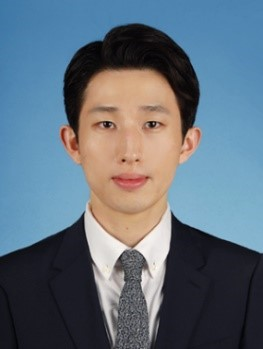
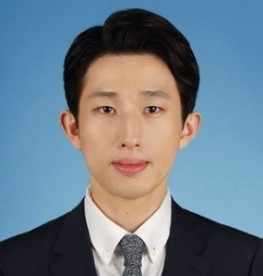
docs: 프로필 및 리드미 수정

diff --git a/js/config.js b/js/config.js
@@ -1,4 +1,4 @@
-/* config.js — 사이트에 표시되는 "내용"만 모아둔 파일 */
+/* config.js: 웹 페이지에 표시되는 내용을 모아둔 파일 */
 
 const SITE_CONFIG = {
   /* 브라우저 탭 제목 / 검색 설명 */
@@ -35,10 +35,10 @@ const SITE_CONFIG = {
       src: 'images/김영운.jpg',
       alt: '프로필 사진', // 이미지 내용을 설명하는 문장
     },
-    // 직장 경력
+    // 주요 경력
     paragraphs: [
-      'Ex- Ernst & Young AI 컨설팅 팀',
-      'Ex- KoDATA Solution 리서치 팀',
+      '직장 경력: Ernst & Young AI 컨설팅 팀 / KoDATA(한국평가데이터) 리서치 팀',
+      '주요 프로젝트: 하나증권 옴니버스 계좌 타겟 MTS 개선/ BNK금융그룹 모바일 앱 리뷰 분석 시스템',
     ],
     // 핵심 정보
     facts: [
@@ -74,8 +74,7 @@ const SITE_CONFIG = {
     lead: '궁금한 점이 있다면 편하게 메시지를 남겨 주세요.',
     successMessage: '메시지를 보냈습니다. 확인 후 답장드리겠습니다.',
     // [BONUS 3] Formspree 엔드포인트
-    // 예: 'https://formspree.io/f/abcdwxyz'
-    formspreeEndpoint: '', // TODO (선택)
+    formspreeEndpoint: 'https://formspree.io/f/xrpbpaow',
   },
 
   /* Footer(저작권, 소셜 링크) */
@@ -83,8 +82,8 @@ const SITE_CONFIG = {
     copyrightName: '김영운', 
     // iconClass 는 Font Awesome 클래스명(https://fontawesome.com/search?o=r&m=free)
     socialLinks: [
-      { label: 'GitHub', url: 'https://github.com/ktheodoreyw', iconClass: 'fa-brands fa-github' }, // TODO
-      { label: 'LinkedIn', url: 'https://www.linkedin.com/in/yeong-woon-kim-86463a2a4/', iconClass: 'fa-brands fa-linkedin' }, // TODO
+      { label: 'GitHub', url: 'https://github.com/ktheodoreyw', iconClass: 'fa-brands fa-github' },
+      { label: 'LinkedIn', url: 'https://www.linkedin.com/in/yeong-woon-kim-86463a2a4/', iconClass: 'fa-brands fa-linkedin' },
     ],
   },
 

diff --git a/README.md b/README.md
@@ -1,22 +1,22 @@
-# 반응형 포트폴리오 웹사이트
+# 프로젝트 개요
 
-외부 라이브러리 없이 **순수 HTML / CSS / JavaScript** 만으로 만든 반응형 포트폴리오 웹사이트입니다.
-GitHub API로 저장소 목록을 불러와 Projects 섹션에 렌더링하며, 모든 기능을 **"이벤트 → 상태 변경 → 화면 업데이트"** 흐름으로 구현했습니다.
+외부 라이브러리 없이 **HTML / CSS / JavaScript** 만으로 반응형 포트폴리오 웹사이트 구현
+GitHub API로 저장소 목록을 불러와 Projects 섹션에 렌더링하며, 모든 기능을 **"이벤트 → 상태 변경 → 화면 업데이트"** 흐름으로 구현
 
 | 항목 | 내용 |
 | --- | --- |
-| 배포 URL | `https://<GITHUB_ID>.github.io/<REPO_NAME>/` <!-- TODO: 배포 후 실제 주소로 교체 --> |
-| 저장소 URL | `https://github.com/<GITHUB_ID>/<REPO_NAME>` <!-- TODO --> |
-| 사용 기술 | HTML5, CSS3(Flexbox · Grid · CSS 변수), JavaScript(ES6+), GitHub REST API |
+| 배포 URL | `https://ktheodoreyw.github.io/Codyssey_B1-1_Theodore/` |
+| 저장소 URL | `https://github.com/<ktheodoreyw>/<Codyssey_B1-1_Theodore>` |
+| 사용 기술 | HTML5, CSS3(Flexbox, Grid), JavaScript(ES6+), GitHub REST API |
 | 허용된 외부 리소스 | Google Fonts(IBM Plex Sans KR), Font Awesome(아이콘) |
-| 동작 확인 브라우저 | 최신 Chrome |
+| 동작 확인 브라우저 | Chrome |
 
 ## 목차
 
 1. [스크린샷](#1-스크린샷)
-2. [내용 채우기 — `js/config.js` 만 수정](#2-내용-채우기--jsconfigjs-만-수정)
+2. [포트폴리오 상세내용](#2-포트폴리오--상세내용)
 3. [폴더 구조](#3-폴더-구조)
-4. [실행 · 업로드 · 배포](#4-실행--업로드--배포)
+4. [실행, 업로드, 배포](#4-실행--업로드--배포)
 5. [기준값 명시](#5-기준값-명시)
 6. **기본 과제**
    - [6-1. 기능 요구사항 체크리스트](#6-1-기능-요구사항-체크리스트)
@@ -27,9 +27,7 @@ GitHub API로 저장소 목록을 불러와 Projects 섹션에 렌더링하며, 
    - [항목 2 — 구조와 설계 이유](#항목-2--구조와-설계-이유)
    - [항목 3 — 코드 흐름 설명](#항목-3--코드-흐름-설명)
    - [항목 4 — 심화 질문](#항목-4--심화-질문)
-8. **[보너스 과제](#8-보너스-과제-기본-과제와-별도)** (기본 과제와 별도)
-9. [제출 전 체크리스트](#9-제출-전-체크리스트)
-
+8. [보너스 과제](#8-보너스-과제)
 ---
 
 ## 1. 스크린샷
@@ -42,7 +40,7 @@ GitHub API로 저장소 목록을 불러와 Projects 섹션에 렌더링하며, 
 
 ---
 
-## 2. 내용 채우기 — `js/config.js` 만 수정
+## 2. 포트폴리오 상세내용
 
 사이트에 표시되는 **내용(데이터)** 과 **구조·로직** 을 분리했습니다.
 `index.html` 은 뼈대만 갖고 있고, `main.js` 의 `renderContent()` 가 `config.js` 의 값을 읽어 각 섹션에 채워 넣습니다.
@@ -505,7 +503,7 @@ const fetchRepos = async () => {
 
 ---
 
-# 8. 보너스 과제 (기본 과제와 별도)
+# 8. 보너스 과제
 
 > 보너스 코드는 세 파일 모두에서 **`[BONUS n]` … `[/BONUS n]` 주석 블록**으로 기본 과제 코드와 구분했습니다.
 > `js/config.js` 의 `features` 값을 `false` 로 바꾸면 해당 보너스 없이 **기본 과제만** 동작합니다.
@@ -517,21 +515,21 @@ const fetchRepos = async () => {
 | 3 | 폼 실제 전송 (Formspree) | `contact.formspreeEndpoint` 입력 시 | `main.js` `[BONUS 3]` `sendToFormspree()` |
 | 4 | 시스템 다크 모드 감지 | `features.systemTheme` | `main.js` `[BONUS 4]` · `style.css` `[BONUS 4]` |
 
-## BONUS 1 — 언어별 프로젝트 필터링 (`array.filter`)
+## BONUS 1: 언어별 프로젝트 필터링 (`array.filter`)
 
 - `getLanguages()` : 저장소 배열을 `map` 으로 언어만 뽑고 `Set` 으로 중복 제거 → `['All', 'JavaScript', 'Python', …]` 버튼 생성. `language` 가 `null` 인 저장소는 "기타"로 묶습니다.
 - `getVisibleRepos()` : `items.filter((repo) => getLanguageLabel(repo) === filter)`
 - **상태 → 렌더링 흐름 (과제 예시 4)**: 필터 버튼 `click` → `handleFilterClick` → `setState('projects', { filter })` → `renderProjects()` 가 필터된 목록과 버튼의 `.active` 를 다시 그림
 - 버튼은 매번 다시 그려지므로 부모에 **이벤트 위임**으로 한 번만 연결했습니다.
 
-## BONUS 2 — 타이핑 효과
+## BONUS 2: 타이핑 효과
 
 - `initTypingEffect()` : `config.hero.typingPhrases` 의 문구를 `setTimeout` 재귀로 한 글자씩 출력(`slice(0, charIndex)`) → 1.6초 대기 → 삭제 → 다음 문구
 - 속도는 상수로 분리: `TYPING_SPEED = 90ms`, `DELETING_SPEED = 40ms`, `PAUSE_AFTER_TYPED = 1600ms`, `PAUSE_BEFORE_NEXT = 400ms`
 - 접근성: 계속 바뀌는 글자는 `aria-hidden` 처리하고 스크린 리더에는 전체 문구를 고정 텍스트로 제공. OS 의 "동작 줄이기" 설정 시 첫 문구를 고정 표시
 - OFF 시: `hero.role` 고정 문구가 그대로 표시됩니다.
 
-## BONUS 3 — 폼 실제 전송 (Formspree)
+## BONUS 3: 폼 실제 전송 (Formspree)
 
 1. [formspree.io](https://formspree.io) 가입 → New Form → 엔드포인트 복사 (`https://formspree.io/f/xxxxxxx`)
 2. `js/config.js` 의 `contact.formspreeEndpoint` 에 붙여넣기
@@ -541,7 +539,7 @@ const fetchRepos = async () => {
 - 엔드포인트가 비어 있으면 실제 전송 없이 **검증 + 성공 메시지까지만** 동작합니다. (기본 과제 범위)
 - Formspree 는 SDK 설치 없이 HTTP 요청만으로 동작하므로 "외부 라이브러리 금지" 조건을 지킵니다.
 
-## BONUS 4 — 시스템 다크 모드 감지 (`prefers-color-scheme`)
+## BONUS 4: 시스템 다크 모드 감지 (`prefers-color-scheme`)
 
 테마 결정 우선순위: **① 사용자가 직접 고른 값(localStorage) → ② OS 설정 → ③ 라이트**
 
@@ -551,16 +549,6 @@ const fetchRepos = async () => {
 - 확인 방법: 개발자 도구 → Rendering 탭 → *Emulate CSS media feature prefers-color-scheme* (Local Storage 의 `portfolio-theme` 을 먼저 삭제)
 
 ---
-
-## 9. 제출 전 체크리스트
-
-- [ ] `js/config.js` 의 `TODO` 항목을 모두 본인 정보로 교체 (**특히 `githubUsername`**)
-- [ ] `images/` 에 프로필 사진 추가, `about.image.src` · `alt` 수정
-- [ ] GitHub 저장소 push → Pages 배포 → 배포 URL 에서 전 기능 확인
-- [ ] 스크린샷 3장 저장: `images/screenshots/desktop.png`, `mobile.png`, `dark.png`
-- [ ] 이 README 상단의 배포 URL · 저장소 URL 교체
-- [ ] (선택) Formspree 엔드포인트 입력 후 실제 메일 수신 확인
-
 ### GitHub API 주의사항
 
 인증 없이 호출하면 **IP 당 시간당 60회**로 제한됩니다. 짧은 시간에 반복해서 새로고침하지 말고, 상태 UI 는 `?mock=` 쿼리로 확인하세요. 한도를 넘으면(403) 에러 상태 UI 에 재시도 가능 시각이 표시됩니다.
